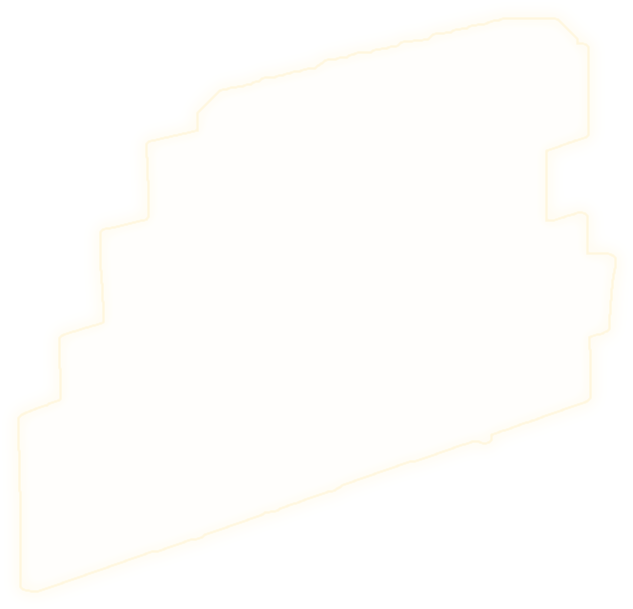
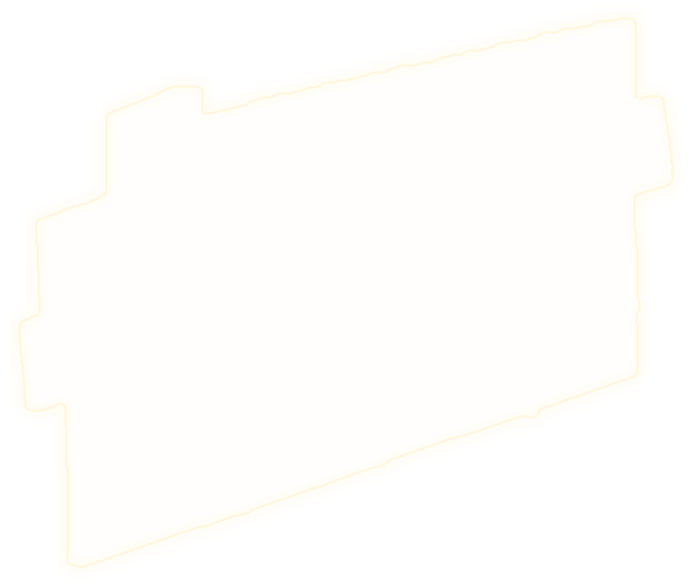
Outlines wrap the sticky notes on the desk monitor and notebook; KPI board and wooden door are separate hotspots

diff --git a/game/game.js b/game/game.js
@@ -163,8 +163,9 @@ const VIEWS = {
   hall: { nav: [AR(1563, 532, -29, 'hallOffice', 'Văn phòng (máy 04)'), AR(1208, 583, -56, 'hallKPI', 'Bảng KPI · cửa gỗ', afterFolder), AR(611, 686, -145, 'hallWater', 'Máy lọc nước', afterFolder), AR(829, 616, -90, 'cellDoor', 'Cửa phòng giam (CELL)', afterFolder)], spots: [
     { x: 280, y: 237, w: 168, h: 215, label: 'Máy lọc nước', go: 'hallWater', lock: true }, // chỉ bình nước, không gồm kệ
     { x: 655, y: 300, w: 403, h: 360, label: 'Cửa phòng giam (CELL)', go: 'cellDoor', lock: true },
-    { x: 1102, y: 251, w: 294, h: 404, label: 'Bảng KPI và cửa gỗ', go: 'hallKPI', lock: true },
+    { x: 1108, y: 236, w: 142, h: 200, label: 'Bảng KPI', go: 'hallKPI', lock: true },
     { x: 1495, y: 98, w: 403, h: 666, label: 'Cửa OFFICE', go: 'hallOffice' },
+    { x: 1264, y: 334, w: 110, h: 245, label: 'Cửa gỗ', go: 'hallKPI', lock: true }, // để cuối vì viền đánh số theo thứ tự (hall_4)
   ] },
   hallOffice: { dai: { x: 400, h: 860 }, nav: [AR(230, 610, 180, 'hall', 'Hành lang'), AR(1144, 915, -54, 'pc', 'Vào ngồi máy 04')], spots: [
     { x: 720, y: 153, w: 894, h: 785, label: 'Vào ngồi máy 04', go: 'pc' },
@@ -178,11 +179,11 @@ const VIEWS = {
     { x: 535, y: 398, w: 330, h: 64, label: 'THUNG_RAC', act: () => openFolder('rac') },
   ], draw: drawPcLabels },
   desk: { nav: [AR(228, 608, 180, 'pc', 'Về máy 04'), AR(1722, 590, 0, 'desk2', 'Bàn kế tiếp')], spots: [
-    { x: 235, y: 45, w: 640, h: 590, label: 'Máy bàn bên', act: () => dialog([L.desk1]) },
+    { x: 195, y: 90, w: 650, h: 550, label: 'Máy bàn bên', act: () => dialog([L.desk1]) },
   ] },
   desk2: { nav: [AR(230, 608, 180, 'desk', 'Quay lại')], spots: [
     { x: 60, y: 165, w: 555, h: 630, label: 'Máy bàn bên', act: () => dialog([L.desk2]) },
-    { x: 1045, y: 470, w: 215, h: 300, label: 'Cuốn sổ', act: () => collect('note') },
+    { x: 1045, y: 495, w: 245, h: 270, label: 'Cuốn sổ', act: () => collect('note') },
   ] },
   office: { dai: { x: 760, h: 880 }, nav: [AR(1369, 767, -57, 'corner', 'Góc bảng ghim · đồng hồ'), AR(795, 753, -90, 'hall', 'Ra hành lang')], spots: [
     // chỉ máy số 4 (màn hình có thư mục) mới mở giao diện thư mục; 3 máy còn lại ra góc xéo bàn bên

diff --git a/game/outlines.js b/game/outlines.js
@@ -1,2 +1,2 @@
 // Viền sáng ôm theo hình từng đồ vật, tách tự động từ ảnh phòng (GrabCut). Tọa độ góc trên trái theo hệ 1920x1080.
-const OUTLINE = {"hall_0":[261,218],"hall_1":[647,278],"hall_2":[1084,229],"hall_3":[1475,82],"hallOffice_0":[698,148],"desk_0":[219,47],"desk2_0":[53,146],"desk2_1":[1030,525],"office_0":[213,713],"office_1":[544,720],"office_2":[1014,714],"office_3":[1322,714],"office_4":[1073,436],"corner_0":[264,88],"corner_1":[970,73],"corner_2":[1139,589],"hallWater_0":[1188,628],"hallKPI_0":[6,62],"hallKPI_1":[844,58],"boss_0":[29,306],"boss_1":[1200,242],"bossRight_0":[700,39],"cellDoor_0":[422,148],"cellDoor_1":[1379,275],"cells_0":[959,98],"cells_1":[737,358],"cells_2":[608,457],"cells_3":[320,523]};
+const OUTLINE = {"hall_0":[261,218],"hall_1":[647,278],"hall_2":[1086,218],"hall_3":[1475,82],"hallOffice_0":[698,148],"desk_0":[172,72],"desk2_0":[53,146],"desk2_1":[1029,484],"office_0":[213,713],"office_1":[544,720],"office_2":[1014,714],"office_3":[1322,714],"office_4":[1073,436],"corner_0":[264,88],"corner_1":[970,73],"corner_2":[1139,589],"hallWater_0":[1188,628],"hallKPI_0":[6,62],"hallKPI_1":[844,58],"boss_0":[29,306],"boss_1":[1200,242],"bossRight_0":[700,39],"cellDoor_0":[422,148],"cellDoor_1":[1379,275],"cells_0":[959,98],"cells_1":[737,358],"cells_2":[608,457],"cells_3":[320,523],"hall_4":[1241,315]};
